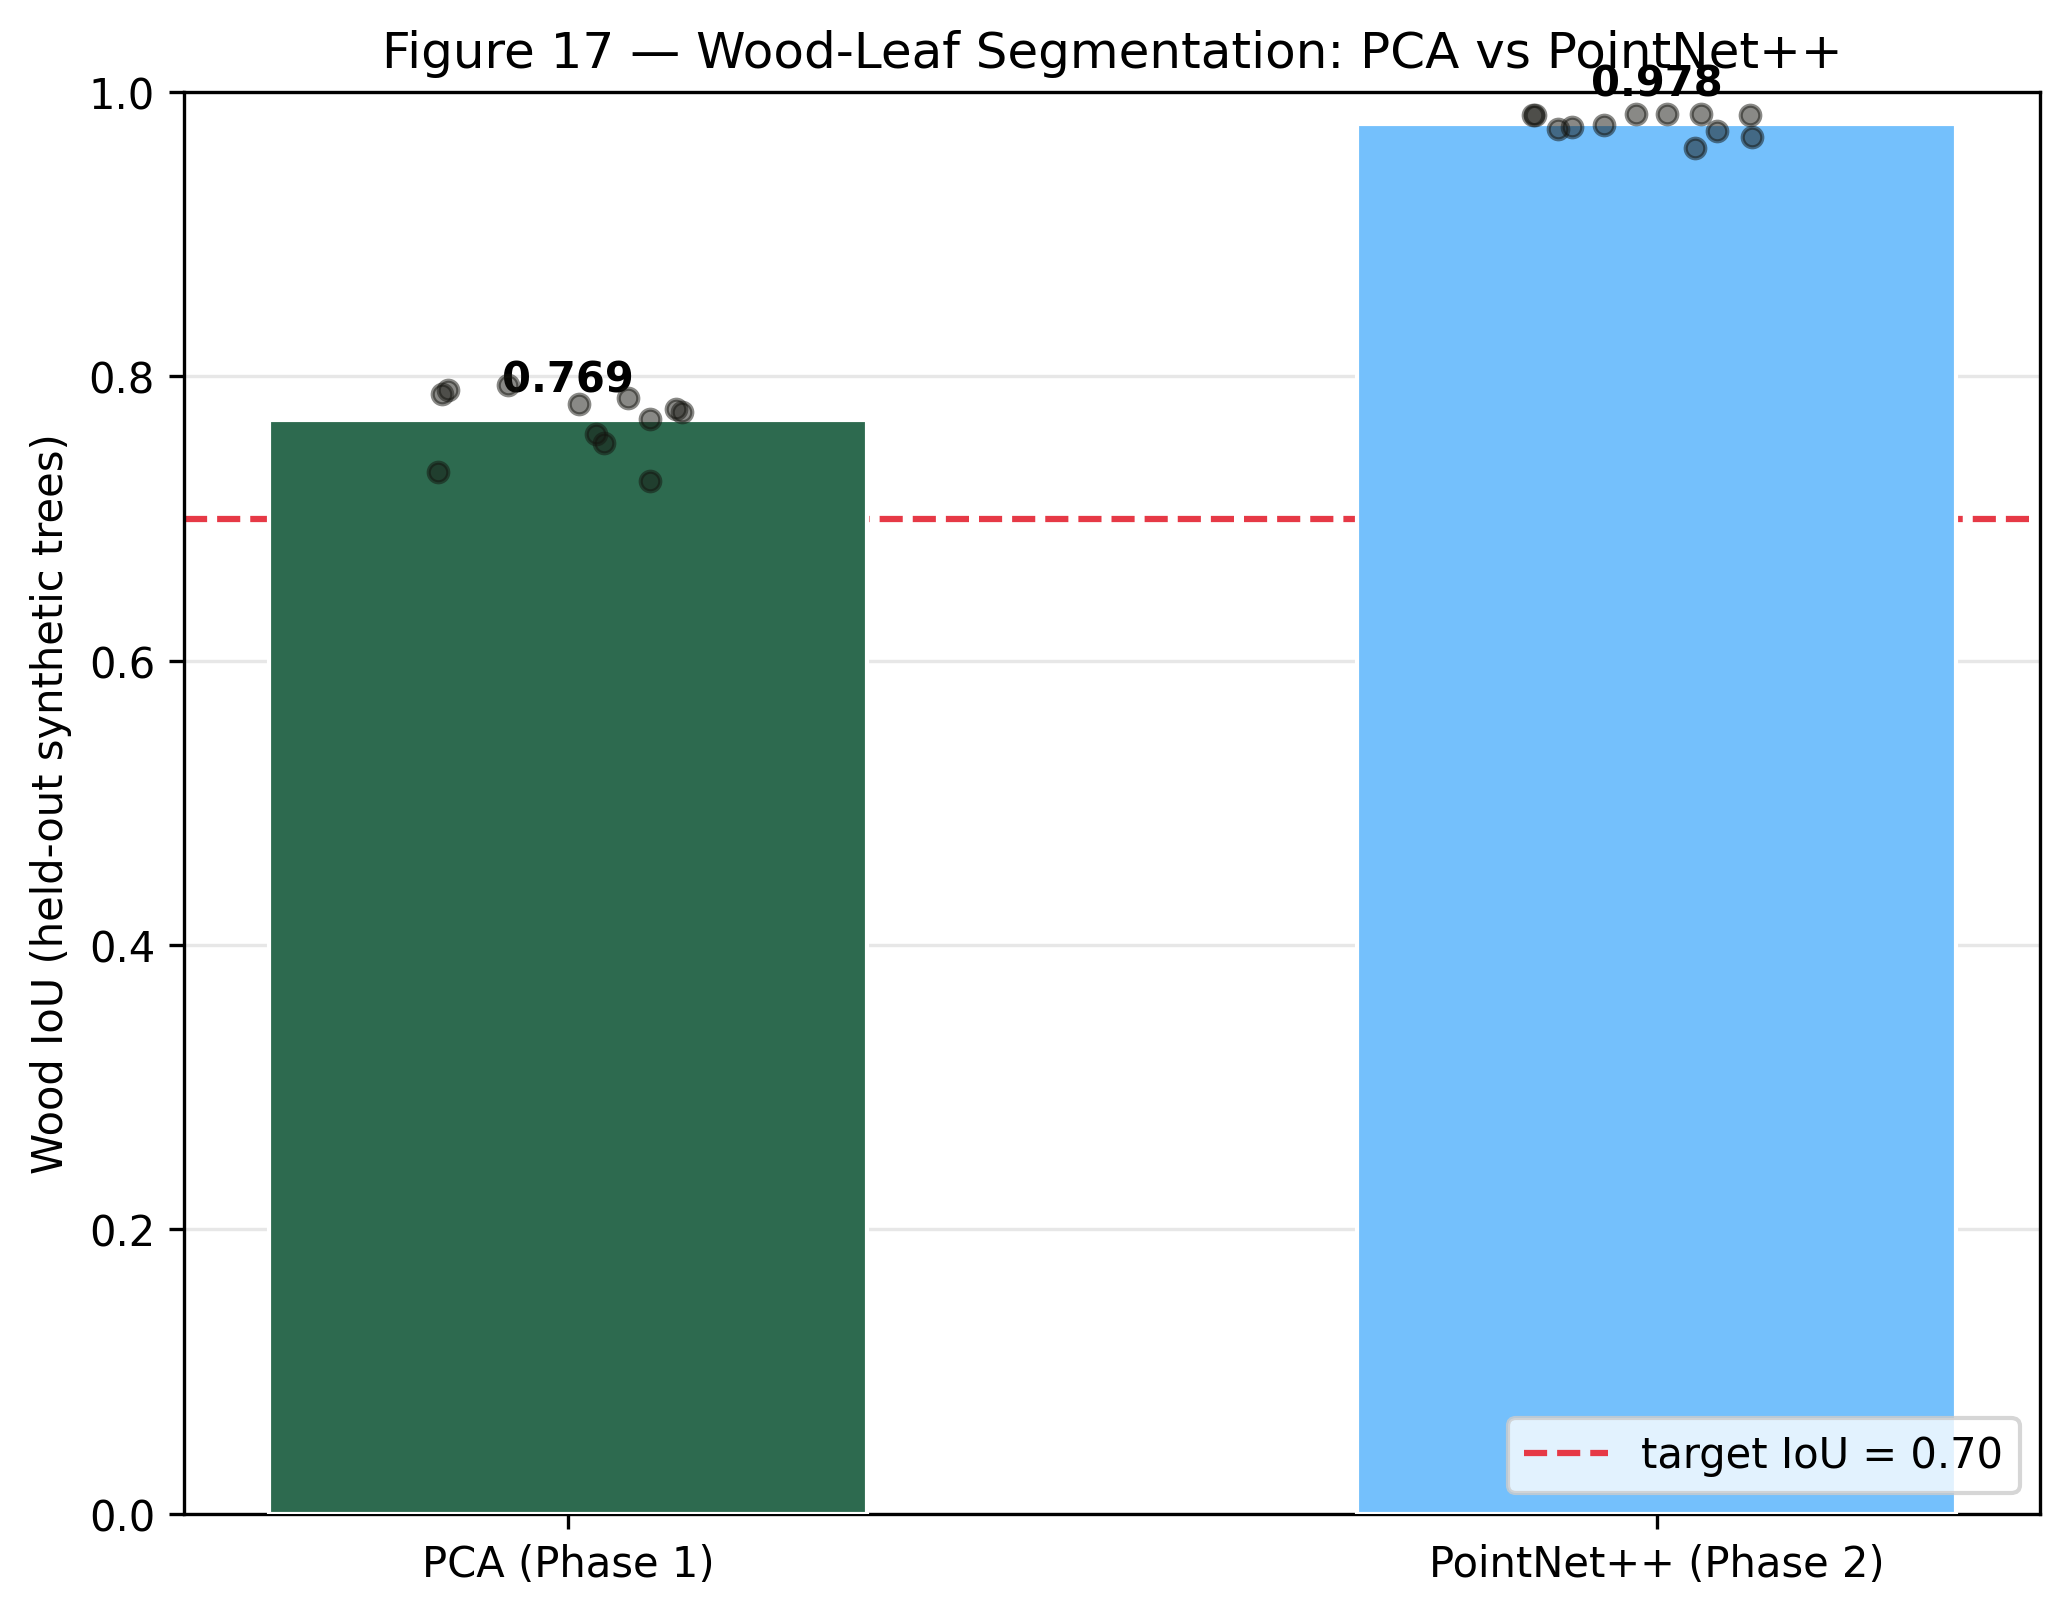
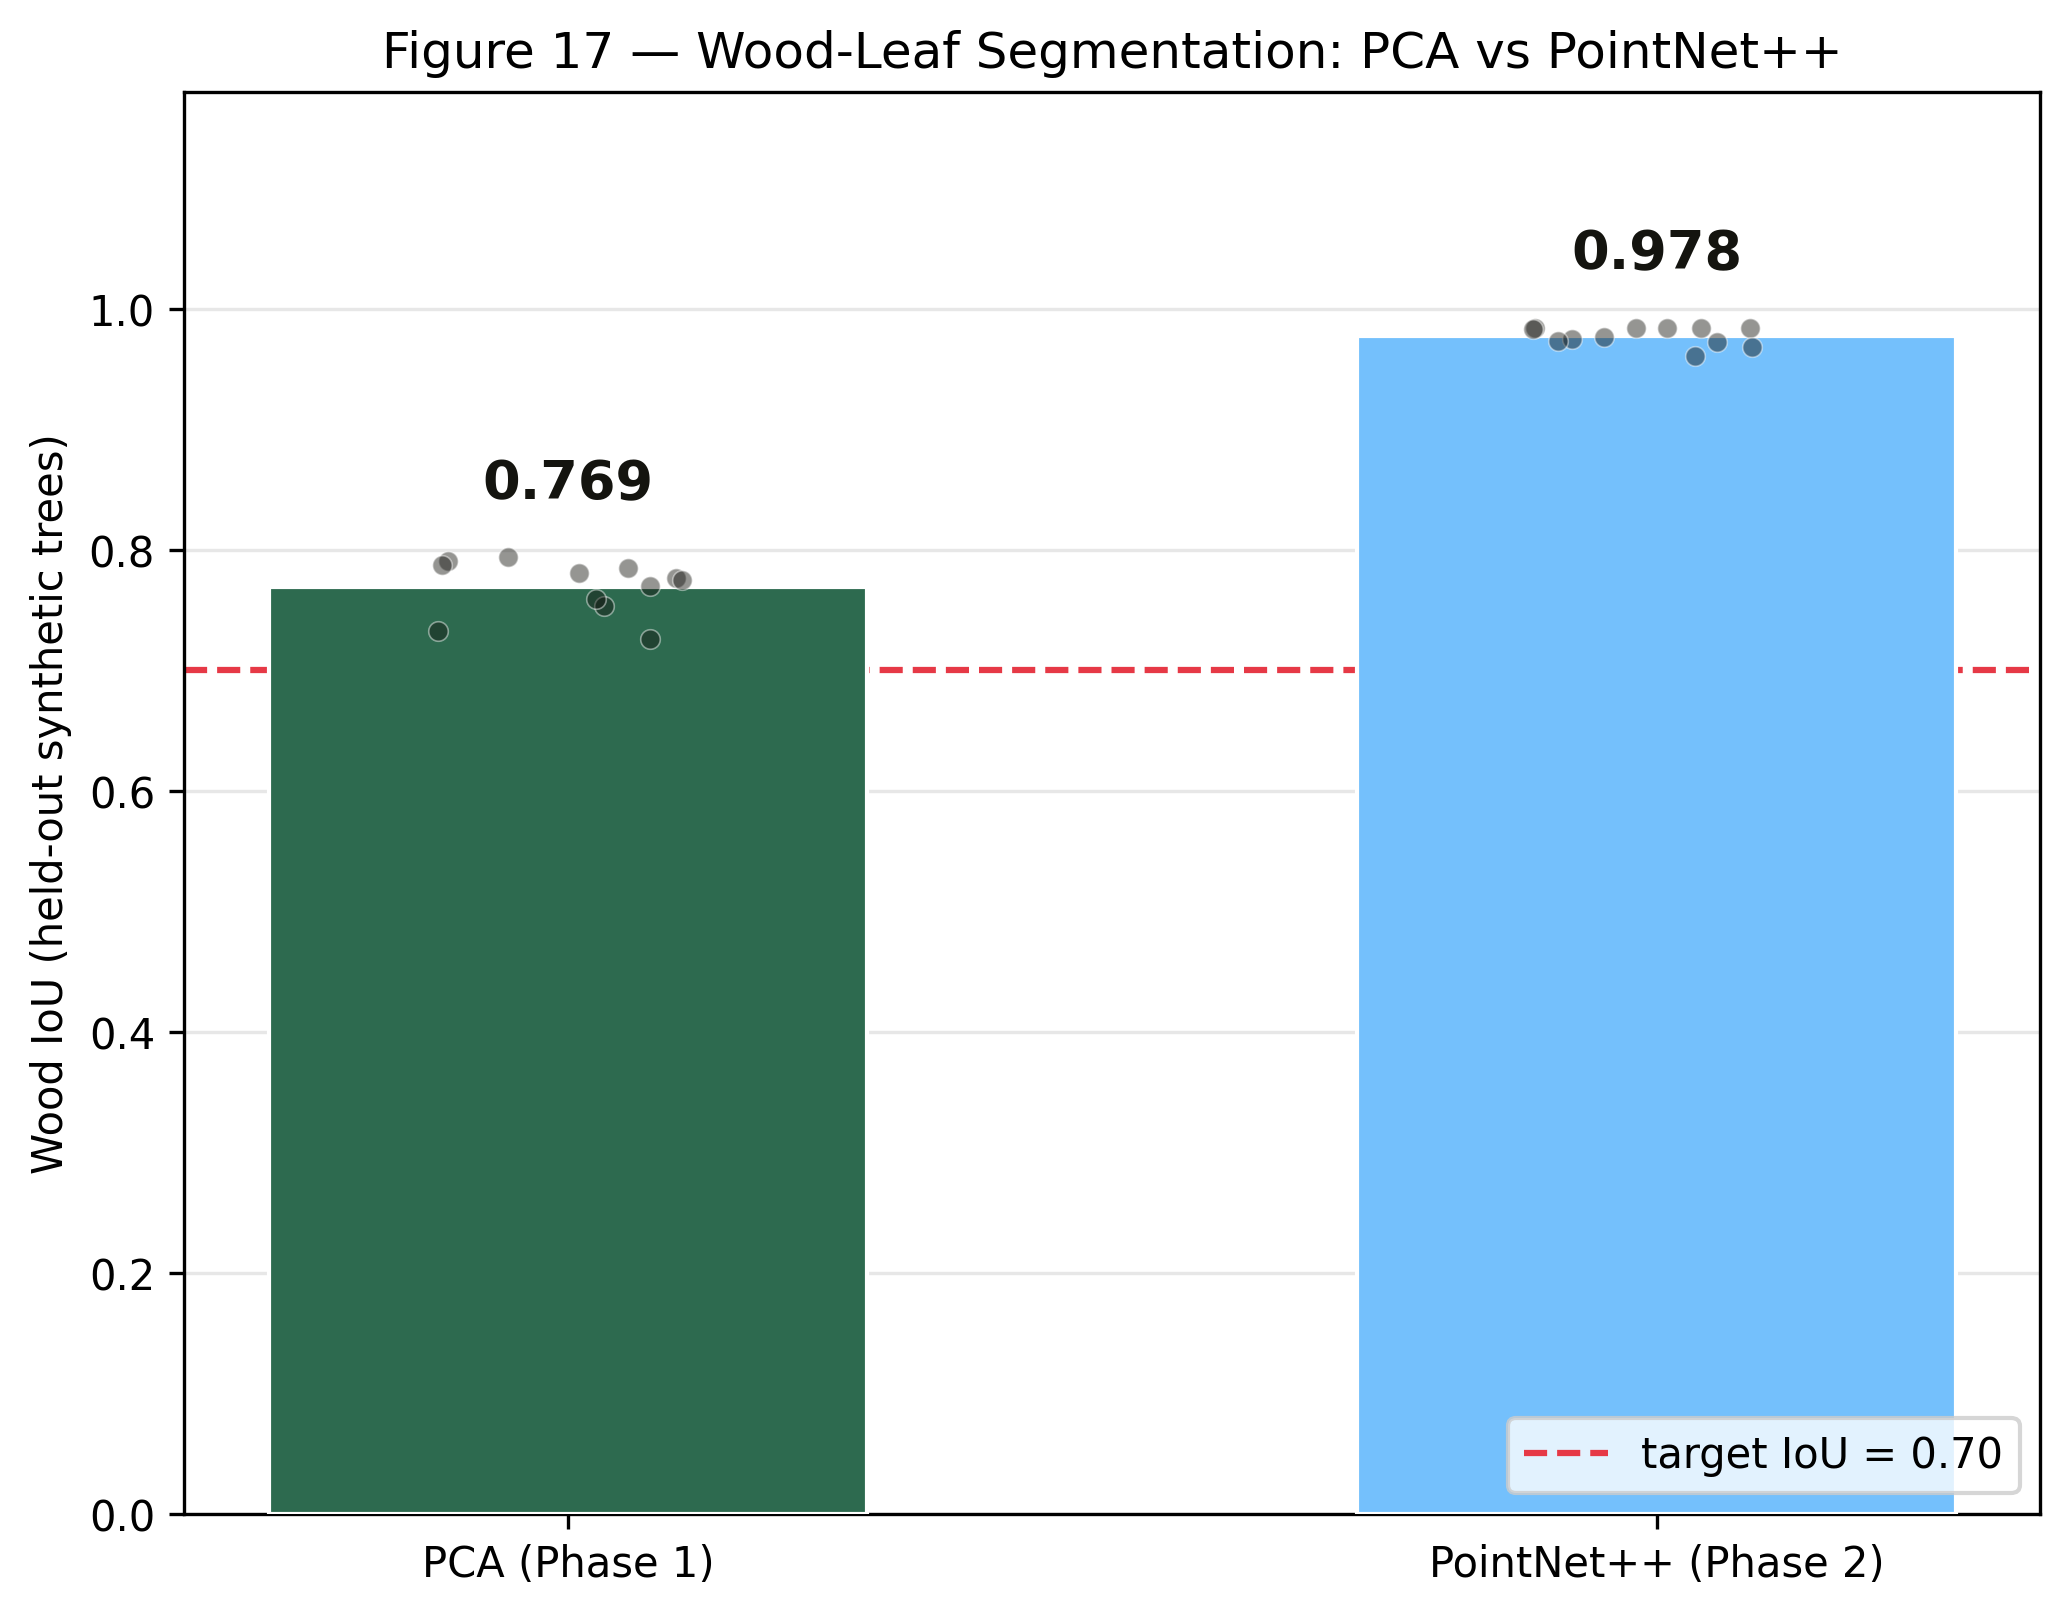
fix(figures): fig17 value labels no longer overlap the scatter dots (#39)
Place the 0.769 / 0.978 labels above each bar's highest point and add headroom
(ylim 1.18); white-edged dots for a cleaner read. Regenerated from the CSV.

diff --git a/services/ml/notebooks/compare_woodleaf.py b/services/ml/notebooks/compare_woodleaf.py
@@ -104,11 +104,16 @@ def _bar_chart(results: dict[str, list[float]], out: Path) -> None:
     for i, k in enumerate(names):
         ys = results[k]
         xs = np.full(len(ys), i) + jitter.uniform(-0.12, 0.12, len(ys))
-        ax.scatter(xs, ys, color="#14140F", alpha=0.5, s=22, zorder=4)
-    ax.axhline(0.70, color="#E63946", linestyle="--", label="target IoU = 0.70", zorder=2)
-    for b, m in zip(bars, means, strict=True):
-        ax.text(b.get_x() + b.get_width() / 2, m + 0.02, f"{m:.3f}", ha="center", fontweight="bold")
-    ax.set_ylim(0, 1.0)
+        ax.scatter(xs, ys, color="#14140F", alpha=0.45, s=22, zorder=4,
+                   edgecolor="white", linewidth=0.4)
+    ax.axhline(0.70, color="#E63946", linestyle="--", linewidth=1.5,
+               label="target IoU = 0.70", zorder=2)
+    # value labels sit above the highest scatter point of each bar (clear of the dots)
+    for b, m, k in zip(bars, means, names, strict=True):
+        top = max(max(results[k]), m)
+        ax.text(b.get_x() + b.get_width() / 2, top + 0.04, f"{m:.3f}",
+                ha="center", va="bottom", fontweight="bold", fontsize=13, color="#14140F")
+    ax.set_ylim(0, 1.18)
     ax.set_ylabel("Wood IoU (held-out synthetic trees)")
     ax.set_title("Figure 17 — Wood-Leaf Segmentation: PCA vs PointNet++")
     ax.legend(loc="lower right")
